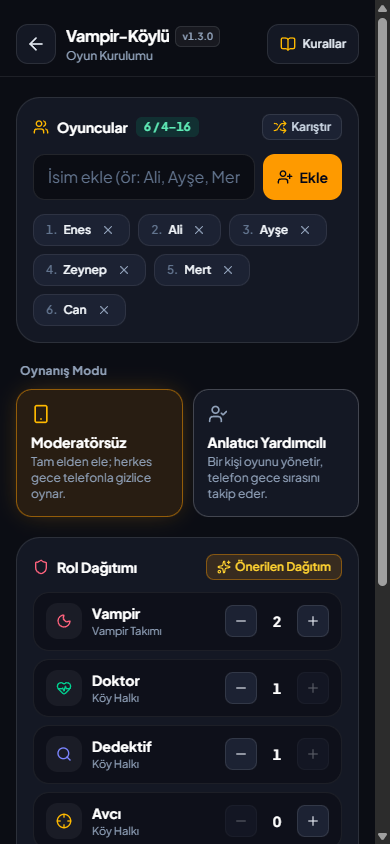
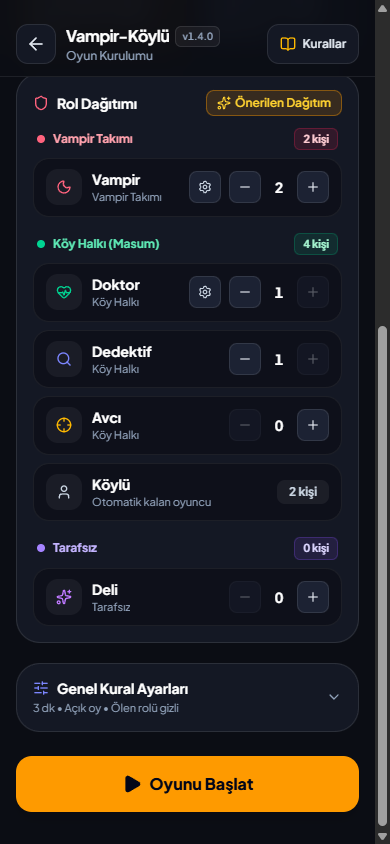
docs: showcase Vampir-Koylu v1.4.0 team categories and per-role settings

diff --git a/README.md b/README.md
@@ -7,8 +7,8 @@
   **Arkadaş grupları için tasarlanmış; tamamen ücretsiz, reklamsız, çevrimdışı çalışabilen mobil öncelikli pass-and-play parti oyunları hub'ı.**
 
   [![Canlı Uygulama](https://img.shields.io/badge/Canlı%20Site-teneffus.ns--som.workers.dev-f59e0b?style=for-the-badge&logo=cloudflare&logoColor=white)](https://teneffus.ns-som.workers.dev/)
-  [![Site Sürümü](https://img.shields.io/badge/Hub%20Sürümü-v1.4.1-10b981?style=for-the-badge)](CHANGELOG.md)
-  [![Vampir-Köylü](https://img.shields.io/badge/Vampir--Köylü-v1.3.1-f43f5e?style=for-the-badge)](CHANGELOG.md)
+  [![Site Sürümü](https://img.shields.io/badge/Hub%20Sürümü-v1.4.2-10b981?style=for-the-badge)](CHANGELOG.md)
+  [![Vampir-Köylü](https://img.shields.io/badge/Vampir--Köylü-v1.4.0-f43f5e?style=for-the-badge)](CHANGELOG.md)
   [![Kelime Sahtekarı](https://img.shields.io/badge/Kelime%20Sahtekarı-v1.1.0-10b981?style=for-the-badge)](CHANGELOG.md)
   [![Mimari](https://img.shields.io/badge/Mimari-React%2019%20%7C%20TS%20%7C%20PWA-6366f1?style=for-the-badge)](docs/ARCHITECTURE.md)
   [![Gizlilik](https://img.shields.io/badge/Gizlilik-%25100%20Cihazda-06b6d4?style=for-the-badge)](docs/PRIVACY.md)
@@ -40,9 +40,9 @@
         <em>Teneffüs Hub v1.4.0: Ortak Oyuncu Ekibi, Vampir-Köylü ve Kelime Sahtekarı</em>
       </td>
       <td align="center" width="33%">
-        <img src="assets/screenshots/vampir-koylu.png" alt="Vampir-Köylü Oyun Kurulumu" width="240">
+        <img src="assets/screenshots/vampir-koylu.png" alt="Vampir-Köylü v1.4.0 Oyun Kurulumu" width="240">
         <br>
-        <em>Vampir-Köylü v1.3.0: Mod, Rol Dağıtımı ve Kurallar</em>
+        <em>Vampir-Köylü v1.4.0: 3 Takımlı Rol Dağıtımı ve Rol İçi Ayarlar</em>
       </td>
       <td align="center" width="33%">
         <img src="assets/screenshots/kelime-sahtekari.png" alt="Kelime Sahtekarı v1.1.0 Oyun Kurulumu" width="240">
@@ -74,10 +74,11 @@ Herkesin aynı gizli kelimeyi bildiği, sahtekarların ise blöf yaptığı tek 
 - **4 Farklı "Son Şans (Oyunu Çalma)" Modu:** Yakalanan sahtekar gizli kelimeyi **6 Şıklı** seçimden bulabilir, **Yazarak** (büyük/küçük harf ve Türkçe karakter toleranslı) tahmin edebilir, **Sözlü (Masa Onaylı)** söyleyebilir ya da bu kural tamamen **Kapalı** oynanabilir.
 - **Eşit Yükseklikli Anti-İpucu Kartları & Dengeli Çağrışımlar:** Bilen ve Sahtekar kartları aynı yüksekliğe sahiptir; sahtekara kategori veya cevabı doğrudan ele vermeyen zorlaştırılmış çağrışım ipuçları gösterme, Açık Masa / Gizli oylama ve tekrarsız kelime havuzu ayarlanabilir.
 
-### 2. Vampir-Köylü (`v1.3.1` • 4–16 Kişi • 10–25 dk)
+### 2. Vampir-Köylü (`v1.4.0` • 4–16 Kişi • 10–25 dk)
 Masa başı klasiği **Vampir-Köylü**, elden ele mobil deneyime özel mekaniklerle sıfırdan tasarlandı:
-- **İki Oynanış Modu:** Tam elden ele **Moderatörsüz** mod veya tek ekrandan akışı yöneten **Anlatıcı Yardımcılı** mod.
-- **6 Farklı Rol:** *Vampir*, *Köylü*, *Doktor*, *Dedektif*, her gece hedef güncelleyebilen ön-hedefli *Avcı* ve gündüz asılırsa tek başına kazanan *Deli*.
+- **3 Kategorili Rol Dağıtımı & Rol İçi Ayarlar:** Roller **Vampir Takımı**, **Köy Halkı (Masum)** ve **Tarafsız** olarak gruplanır; *Vampir* ve *Doktor* gibi rollere özel kurallar doğrudan kendi dişli butonunun altındaki ayar çekmecesinden özelleştirilir.
+- **Gece Takım Oyu Görünümü:** Vampirler birbirini tanırken gece hedef kartında diğer vampirin oyunu **İsimli**, anonim **Vampir oyu** veya tamamen **Gizli** olarak görme ayarları seçilebilir; kör modla otomatik kombinlenir.
+- **İki Oynanış Modu & 6 Rol:** *Moderatörsüz* / *Anlatıcı Yardımcılı* modlar; *Vampir*, *Köylü*, *Doktor*, *Dedektif*, ön-hedefli *Avcı* ve *Deli* rolleri.
 - **Tek Turda Rol + 1. Gece Akışı & Eşit Kartlar:** İlk gecede oyuncular basılı tutup rolünü öğrendikten hemen sonra eylemini tamamlar; paravan seçimleri ve `(i)` rol bilgi kartıyla süreden rol tahmini engellenir.
 - **Özelleştirilebilir Kurallar & Çift Oylama Modu:** **Açık Masa Oylaması** (geri almalı) veya **Gizli Oylama**, elenen rolünü gizleme/gösterme ve doktor kuralları özelleştirilebilir.
 
@@ -88,7 +89,7 @@ Masa başı klasiği **Vampir-Köylü**, elden ele mobil deneyime özel mekanikl
 | Katman | Seçilen Teknoloji & Yaklaşım |
 | :--- | :--- |
 | **Arayüz** | React 19, TypeScript (strict), Tailwind CSS v4, Lucide İkonları |
-| **Derleme & Test** | Vite 8, Vitest (32 saf birim testi: 19 Vampir-Köylü + 10 Kelime Sahtekarı + 3 Sıralama), ESLint |
+| **Derleme & Test** | Vite 8, Vitest (33 saf birim testi: 20 Vampir-Köylü + 10 Kelime Sahtekarı + 3 Sıralama), ESLint |
 | **Mimari** | Oyun motorlarının UI'dan izole edildiği Registry tabanlı modüler yapı ([Architecture Docs](docs/ARCHITECTURE.md)) |
 | **Veri & Gizlilik** | `%100` tarayıcı içi (`localStorage`), sıfır sunucu / sıfır takip ([Privacy Policy](docs/PRIVACY.md)) |
 | **Yayınlama & CDN** | PWA Service Worker + Cloudflare Workers Static Assets (SPA fallback, sınırsız statik istek) |
@@ -99,8 +100,8 @@ Masa başı klasiği **Vampir-Köylü**, elden ele mobil deneyime özel mekanikl
 
 **Teneffüs** is a mobile-first, offline-capable Turkish pass-and-play party game hub built with **React 19**, **strict TypeScript**, **Tailwind CSS v4**, and **Vite 8**, deployed on **Cloudflare Workers Static Assets** (`https://teneffus.ns-som.workers.dev`).
 
-- **Multi-Game Modular Architecture:** Hosts both **Vampir-Köylü** (`v1.3.1`, 4–16 players, 6 roles) and **Kelime Sahtekarı** (`v1.1.0`, 3–12 players, 10 categories / 450 curated Turkish words + custom word lists + multiple-choice, Turkish-normalized typed, and verbal steal mechanics) behind a unified plugin-style game registry and touch/mouse drag-sortable persistent roster.
-- **Decoupled Game Engines:** Pure functional TypeScript state machines for every game, verified by **32 Vitest unit tests** independently of React components.
+- **Multi-Game Modular Architecture:** Hosts both **Vampir-Köylü** (`v1.4.0`, 4–16 players, 3 team groups with per-role settings drawers & configurable night vote visibility) and **Kelime Sahtekarı** (`v1.1.0`, 3–12 players, 10 categories / 450 curated Turkish words + custom word lists + multiple-choice, Turkish-normalized typed, and verbal steal mechanics) behind a unified plugin-style game registry and touch/mouse drag-sortable persistent roster.
+- **Decoupled Game Engines:** Pure functional TypeScript state machines for every game, verified by **33 Vitest unit tests** independently of React components.
 - **Pass-and-Play Security & Mobile Polish:** Uniform-height anti-leakage cards, hold-to-reveal privacy shields, decoy night actions to normalize turn durations, and touch guards preventing accidental text selection or mobile zoom during group handoffs.
 - **Zero-Backend PWA:** Offline app-shell caching via a custom Service Worker and persistent localStorage game state.
 

diff --git a/docs/ARCHITECTURE.md b/docs/ARCHITECTURE.md
@@ -12,8 +12,8 @@ Teneffüs, birbirinden bağımsız elden ele parti oyunlarını tek bir çatı a
 - **Otomatik Konum & Sayaç Yönetimi:** Her faz/oyuncu geçişinde sayfa en üste hizalanır; tartışma sayaçları tur bazlı yenilenir.
 
 ## 3. İzole Oyun Motorları (`Vampir-Köylü` & `Kelime Sahtekarı`)
-- **Vampir-Köylü:** Rol dağıtımı, gece çözümleme, koruma/sorgu/avcı zincirleri ve oylama akışı **19 Vitest birim testi** ile doğrulanır.
-- **Kelime Sahtekarı:** 10 kategori (450 kelime) + özel liste havuzu, zorlaştırılmış çağrışım ipuçları, tekrarsız kelime seçimi, Açık Masa / Gizli oylama, Türkçe karakter esnekliğiyle yazarak tahmin ve şıklı/sözlü son şans kuralları **10 Vitest birim testi** ile doğrulanır; tut-sürükle sıralama yardımcısı **3 birim testi** ile kapsanır (toplam **32 birim testi**).
+- **Vampir-Köylü:** Takım bazlı rol dağıtımı, rol içi ayarlar, gece takım oyu görünürlük kombinasyonları, gece çözümleme, koruma/sorgu/avcı zincirleri ve oylama akışı **20 Vitest birim testi** ile doğrulanır.
+- **Kelime Sahtekarı:** 10 kategori (450 kelime) + özel liste havuzu, zorlaştırılmış çağrışım ipuçları, tekrarsız kelime seçimi, Açık Masa / Gizli oylama, Türkçe karakter esnekliğiyle yazarak tahmin ve şıklı/sözlü son şans kuralları **10 Vitest birim testi** ile doğrulanır; tut-sürükle sıralama yardımcısı **3 birim testi** ile kapsanır (toplam **33 birim testi**).
 
 ## 4. Çevrimdışı PWA & Edge Dağıtımı
 - **Service Worker:** Uygulama kabuğu (`/`), `manifest.webmanifest`, uygulama simgesi ve hash'li Vite JS/CSS paketleri cihazda önbelleğe alınır.

diff --git a/CHANGELOG.md b/CHANGELOG.md
@@ -1,5 +1,11 @@
 # Sürüm Geçmişi (Changelog)
 
+## v1.4.2 (Vampir-Köylü v1.4.0 — Takımlı Rol Dağıtımı & Rol İçi Ayarlar — 2026-11-21)
+- **3 Kategorili Rol Dağıtımı:** Vampir-Köylü rolleri **Vampir Takımı**, **Köy Halkı (Masum)** ve **Tarafsız** gruplarına ayrıldı.
+- **Rol İçi Ayar Çekmeceleri:** *Doktor* ve *Vampir* ile ilgili özel kurallar doğrudan rol kartlarının üzerindeki ayarlar ikonuna taşındı; Genel Kural Ayarları sadeleştirildi.
+- **Gece Takım Oyu Görünümü:** Vampirlerin gece diğer vampir oylarını **İsimli**, anonim **Vampir oyu** veya **Gizli** olarak görme seçeneği eklendi; birbirini tanıma ayarıyla uyumlu çalışır.
+- **PWA Önbelleği:** Service Worker önbellek sürümü `teneffus-v1.4.2` olarak güncellendi.
+
 ## v1.4.1 (Sürükle-Bırak Sıralama & 450 Kelime — 2026-11-21)
 - **Tut-Sürükle Oyuncu Sıralama:** Hub Oyuncu Ekibi (`RosterSheet`), Vampir-Köylü (`v1.3.1`) ve Kelime Sahtekarı (`v1.1.0`) kurulum ekranlarına dokunmatik ve fare destekli sürükle-bırak sıralama eklendi.
 - **Kelime Sahtekarı `v1.1.0`:**
